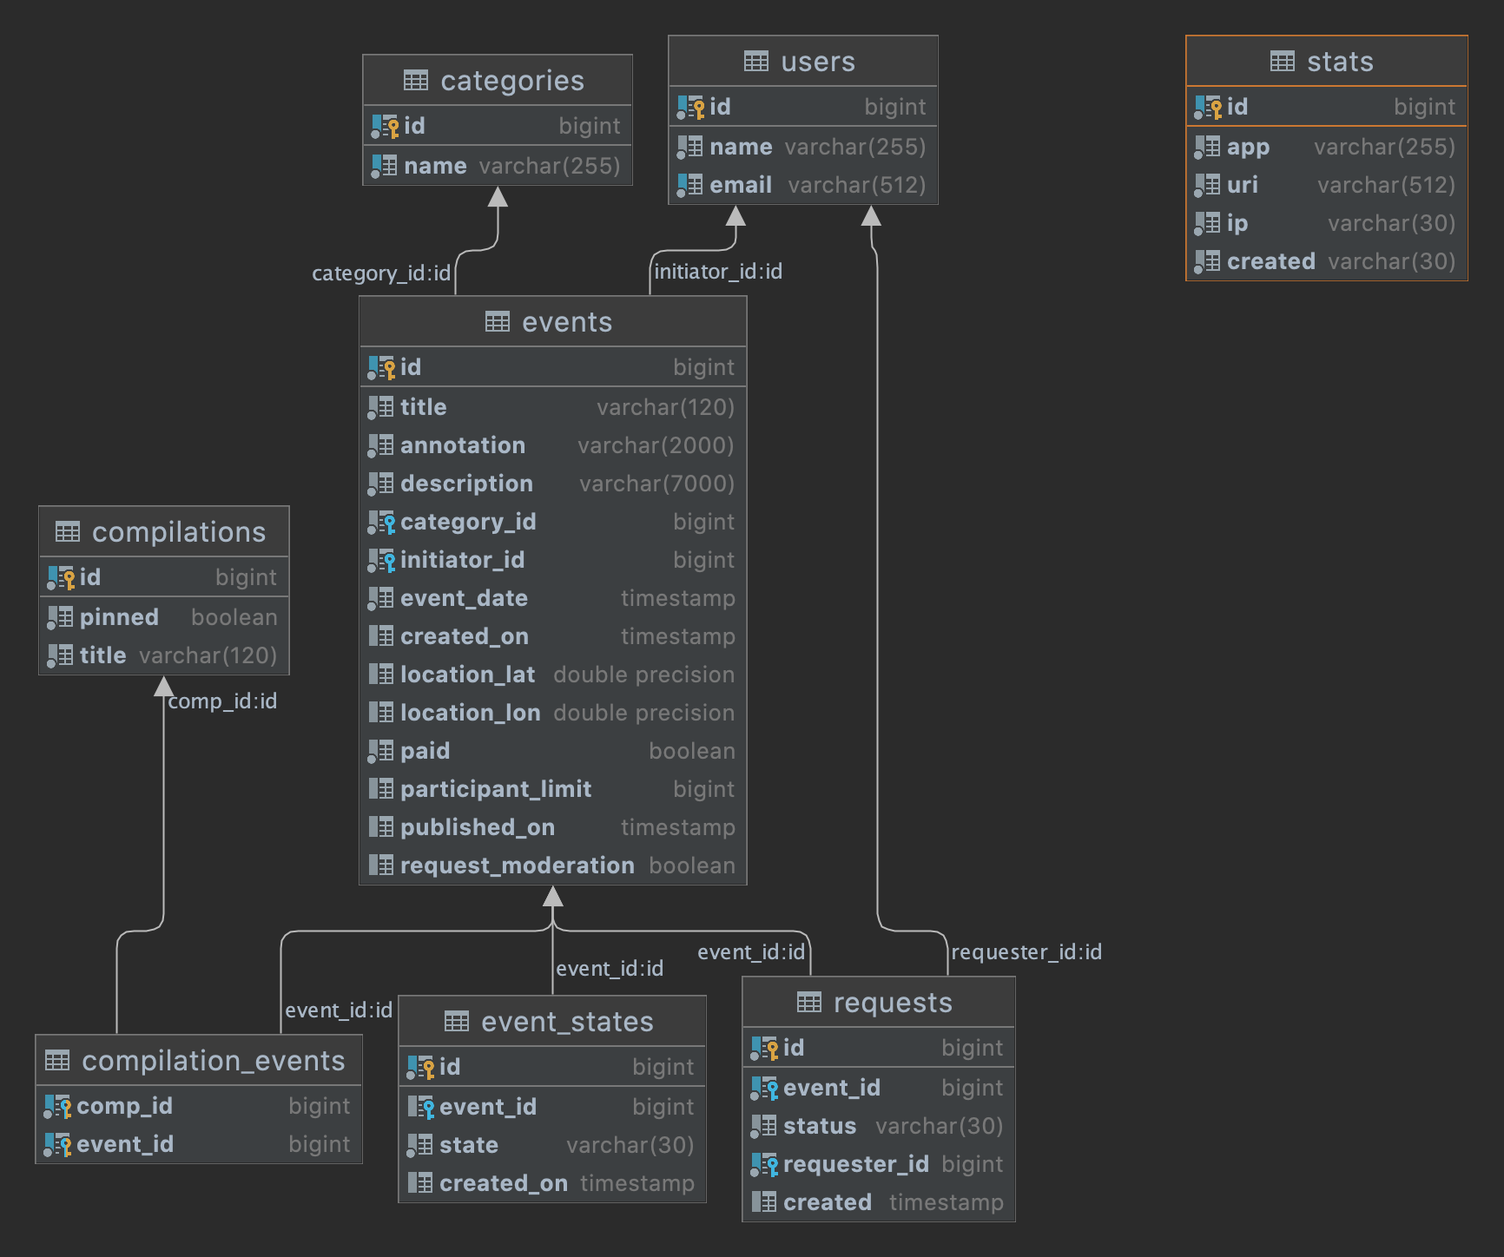
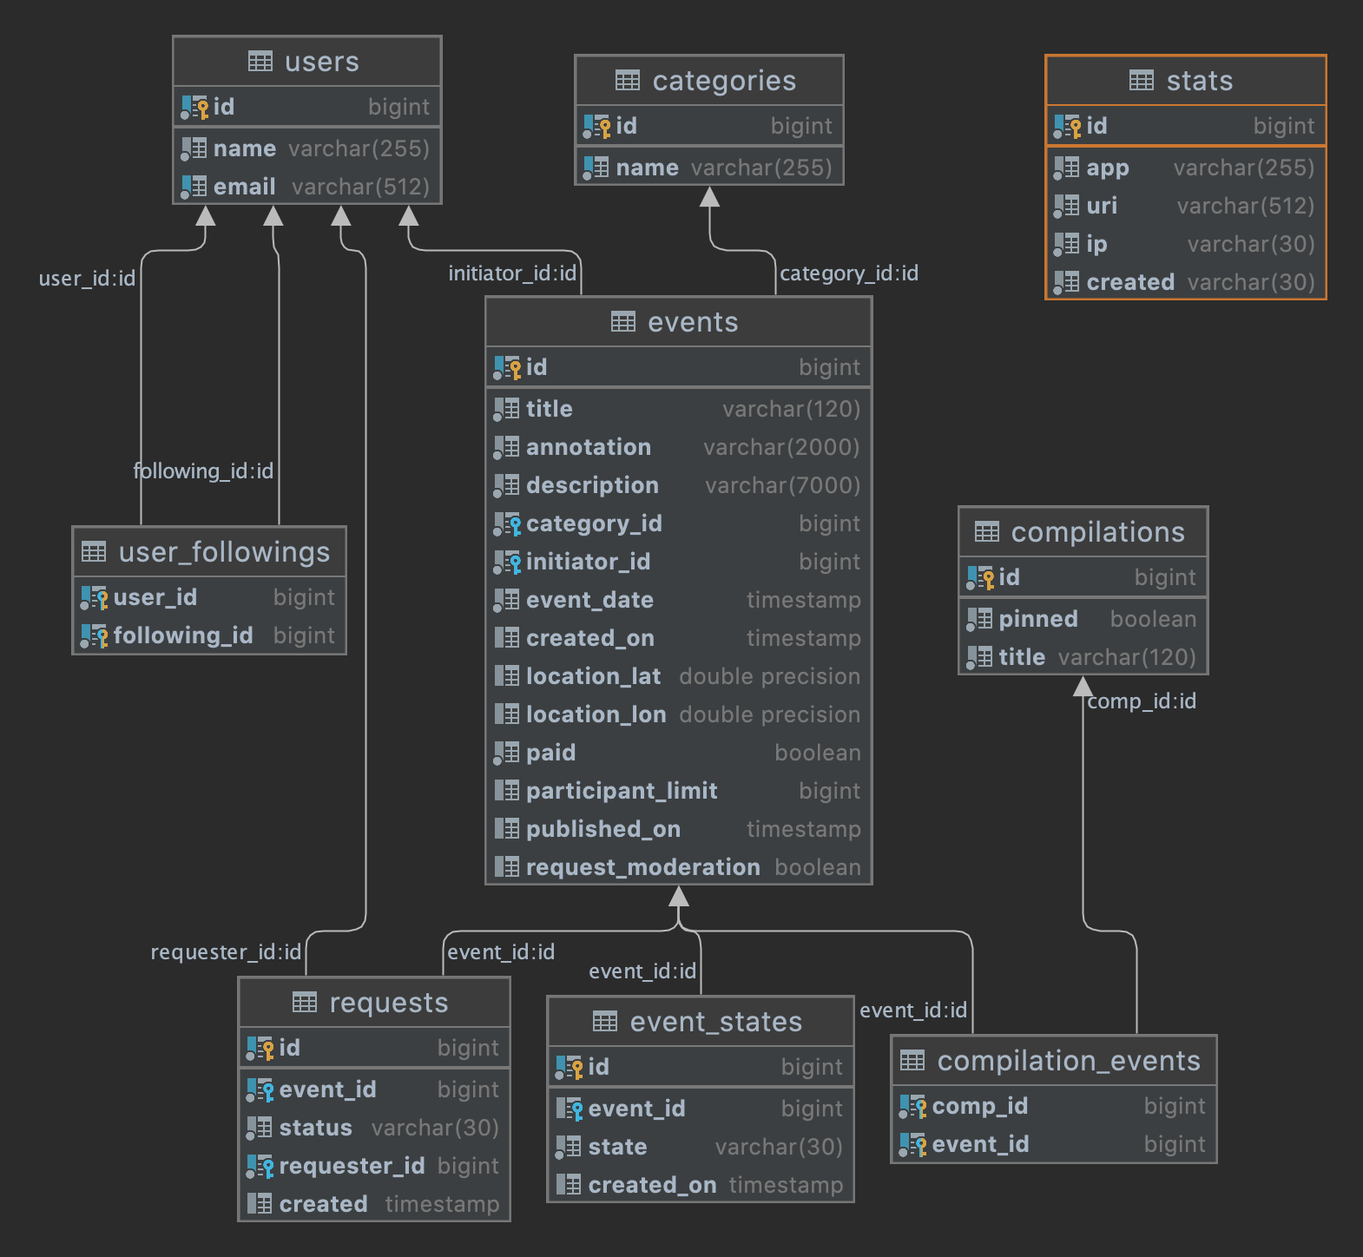
sprint18_fix: исправления по замечаниям ревью напарника

diff --git a/main-service/src/main/java/ru/practicum/mainservice/requests/controller/privateC/RequestPrivateController.java b/main-service/src/main/java/ru/practicum/mainservice/requests/controller/privateC/RequestPrivateController.java
@@ -9,6 +9,7 @@ import ru.practicum.mainservice.requests.model.dto.ParticipationRequestDto;
 import ru.practicum.mainservice.requests.model.entity.Request;
 import ru.practicum.mainservice.requests.service.RequestService;
 
+import javax.validation.constraints.Positive;
 import java.util.List;
 
 @Slf4j
@@ -28,8 +29,8 @@ public class RequestPrivateController {
      */
     @GetMapping("/events/{eventId}/requests")
     public List<ParticipationRequestDto> getEventParticipants(
-            @PathVariable long userId,
-            @PathVariable long eventId) {
+            @Positive @PathVariable long userId,
+            @Positive @PathVariable long eventId) {
         log.info("Получение информации о запросах на участие в событии текущего пользователя:");
         log.info("id текущего пользователя: {}", userId);
         log.info("id события: {}", eventId);
@@ -47,9 +48,9 @@ public class RequestPrivateController {
      */
     @PatchMapping("/events/{eventId}/requests/{reqId}/confirm")
     public ParticipationRequestDto confirmParticipationRequest(
-            @PathVariable long userId,
-            @PathVariable long eventId,
-            @PathVariable long reqId) {
+            @Positive @PathVariable long userId,
+            @Positive @PathVariable long eventId,
+            @Positive @PathVariable long reqId) {
         log.info("Подтверждение чужой заявки на участие в событии текущего пользователя:");
         log.info("id текущего пользователя: {}", userId);
         log.info("id события текущего пользователя: {}", eventId);
@@ -68,9 +69,9 @@ public class RequestPrivateController {
      */
     @PatchMapping("/events/{eventId}/requests/{reqId}/reject")
     public ParticipationRequestDto cancelParticipationRequest(
-            @PathVariable long userId,
-            @PathVariable long eventId,
-            @PathVariable long reqId) {
+            @Positive @PathVariable long userId,
+            @Positive @PathVariable long eventId,
+            @Positive @PathVariable long reqId) {
         log.info("Отклонение чужой заявки на участие в событии текущего пользователя:");
         log.info("id текущего пользователя: {}", userId);
         log.info("id события текущего пользователя: {}", eventId);
@@ -87,7 +88,7 @@ public class RequestPrivateController {
      */
     @GetMapping("/requests")
     public List<ParticipationRequestDto> getUserRequests(
-            @PathVariable long userId) {
+            @Positive @PathVariable long userId) {
         log.info("Получение информации о заявках текущего пользователя на участие в чужих событиях:");
         log.info("id текущего пользователя: {}", userId);
         List<Request> requestList = requestService.getUserRequests(userId);
@@ -108,8 +109,8 @@ public class RequestPrivateController {
      */
     @PostMapping("/requests")
     public ParticipationRequestDto addParticipationRequest(
-            @PathVariable long userId,
-            @RequestParam long eventId) {
+            @Positive @PathVariable long userId,
+            @Positive @RequestParam long eventId) {
         log.info("Добавление запроса от текущего пользователя на участие в событии:");
         log.info("id текущего пользователя: {}", userId);
         log.info("id события: {}", eventId);

diff --git a/main-service/src/main/java/ru/practicum/mainservice/compilation/controller/admin/CompilationAdminController.java b/main-service/src/main/java/ru/practicum/mainservice/compilation/controller/admin/CompilationAdminController.java
@@ -2,6 +2,7 @@ package ru.practicum.mainservice.compilation.controller.admin;
 
 import lombok.RequiredArgsConstructor;
 import lombok.extern.slf4j.Slf4j;
+import org.springframework.validation.annotation.Validated;
 import org.springframework.web.bind.annotation.*;
 import ru.practicum.mainservice.compilation.mapper.CompilationMapper;
 import ru.practicum.mainservice.compilation.model.dto.CompilationDto;
@@ -11,12 +12,14 @@ import ru.practicum.mainservice.compilation.service.CompilationService;
 import ru.practicum.mainservice.event.model.entity.Event;
 import ru.practicum.mainservice.event.service.EventService;
 
+import javax.validation.constraints.Positive;
 import java.util.List;
 import java.util.stream.Collectors;
 
 import static ru.practicum.mainservice.common.Utility.checkForNull;
 
 @Slf4j
+@Validated
 @RestController
 @RequiredArgsConstructor
 @RequestMapping("/admin/compilations")
@@ -46,7 +49,7 @@ public class CompilationAdminController {
      * @param compId id подборки
      */
     @DeleteMapping("/{compId}")
-    public void deleteCompilation(@PathVariable long compId) {
+    public void deleteCompilation(@Positive @PathVariable long compId) {
         log.info("Удаление подборки с compId={}", compId);
         compilationService.deleteCompilation(compId);
     }
@@ -57,7 +60,7 @@ public class CompilationAdminController {
      * @param compId id подборки
      */
     @PatchMapping("/{compId}/pin")
-    public void pinCompilation(@PathVariable long compId) {
+    public void pinCompilation(@Positive @PathVariable long compId) {
         log.info("Закрепить подборку на главной странице с compId={}", compId);
         compilationService.pinCompilation(compId);
     }
@@ -68,7 +71,7 @@ public class CompilationAdminController {
      * @param compId id подборки
      */
     @DeleteMapping("/{compId}/pin")
-    public void unPinCompilation(@PathVariable long compId) {
+    public void unPinCompilation(@Positive @PathVariable long compId) {
         log.info("Открепить подборку на главной странице с compId={}", compId);
         compilationService.unPinCompilation(compId);
     }
@@ -80,8 +83,8 @@ public class CompilationAdminController {
      * @param eventId id события
      */
     @PatchMapping("/{compId}/events/{eventId}")
-    public void addEventToCompilation(@PathVariable long compId,
-                                      @PathVariable long eventId) {
+    public void addEventToCompilation(@Positive @PathVariable long compId,
+                                      @Positive @PathVariable long eventId) {
         log.info("Добавить событие с eventId={} из подборки с compId={}", eventId, compId);
         compilationService.addEventToCompilation(compId, eventId);
     }

diff --git a/main-service/src/main/java/ru/practicum/mainservice/user/controller/publicC/FollowController.java b/main-service/src/main/java/ru/practicum/mainservice/user/controller/publicC/FollowController.java
@@ -2,6 +2,7 @@ package ru.practicum.mainservice.user.controller.publicC;
 
 import lombok.RequiredArgsConstructor;
 import lombok.extern.slf4j.Slf4j;
+import org.springframework.validation.annotation.Validated;
 import org.springframework.web.bind.annotation.*;
 import ru.practicum.mainservice.event.mapper.EventMapper;
 import ru.practicum.mainservice.event.model.dto.EventShortDto;
@@ -13,6 +14,7 @@ import javax.validation.constraints.PositiveOrZero;
 import java.util.List;
 
 @Slf4j
+@Validated
 @RestController
 @RequiredArgsConstructor
 @RequestMapping("/users/{userId}/follows")
@@ -26,8 +28,8 @@ public class FollowController {
      * @param followingId id подписки (на которого подписывается текущий пользователь)
      */
     @PostMapping("/{followingId}")
-    public void addFollowing(@PathVariable long userId,
-                             @PathVariable long followingId) {
+    public void addFollowing(@Positive @PathVariable long userId,
+                             @Positive @PathVariable long followingId) {
         log.info("Подписаться пользователю с userId={} на пользователя с userId={}", userId, followingId);
         userService.addFollowing(userId, followingId);
     }
@@ -39,8 +41,8 @@ public class FollowController {
      * @param followingId id подписки (на которого отподписывается текущий пользователь)
      */
     @DeleteMapping("/{followingId}")
-    public void removeFollowing(@PathVariable long userId,
-                                @PathVariable long followingId) {
+    public void removeFollowing(@Positive @PathVariable long userId,
+                                @Positive @PathVariable long followingId) {
         log.info("Отменить подписку пользователю с userId={} на пользователя с userId={}", userId, followingId);
         userService.removeFollowing(userId, followingId);
     }
@@ -55,7 +57,7 @@ public class FollowController {
      * @return List<UserDto> список пользователей
      */
     @GetMapping("/events")
-    public List<EventShortDto> getEventsFollows(@PathVariable long userId,
+    public List<EventShortDto> getEventsFollows(@Positive @PathVariable long userId,
                                                 @PositiveOrZero @RequestParam(defaultValue = "0") Integer from,
                                                 @Positive @RequestParam(defaultValue = "10") Integer size) {
         log.info("Получение списка актуальных событий, опубликованных пользователями, " +

diff --git a/main-service/src/main/java/ru/practicum/mainservice/event/controller/privateC/EventPrivateController.java b/main-service/src/main/java/ru/practicum/mainservice/event/controller/privateC/EventPrivateController.java
@@ -42,7 +42,7 @@ public class EventPrivateController {
      */
     @GetMapping
     public List<EventShortDto> getEvents(
-            @PathVariable Integer userId,
+            @Positive @PathVariable Integer userId,
             @PositiveOrZero @RequestParam(defaultValue = "0") Integer from,
             @Positive @RequestParam(defaultValue = "10") Integer size) {
         log.info("Получение событий, добавленных текущим пользователем:");
@@ -65,7 +65,7 @@ public class EventPrivateController {
      */
     @PatchMapping
     public EventFullDto updateEvent(
-            @PathVariable long userId,
+            @Positive @PathVariable long userId,
             @RequestBody UpdateEventRequest eventUpdateDto
     ) {
         log.info("Изменение события добавленного текущим пользователем:");
@@ -89,7 +89,7 @@ public class EventPrivateController {
      */
     @PostMapping
     public EventFullDto addEvent(
-            @PathVariable long userId,
+            @Positive @PathVariable long userId,
             @RequestBody NewEventDto newEventDto
     ) {
         log.info("Добавление нового события:");
@@ -112,8 +112,8 @@ public class EventPrivateController {
      */
     @GetMapping("/{eventId}")
     public EventFullDto getEvent(
-            @PathVariable Long userId,
-            @PathVariable Long eventId) {
+            @Positive @PathVariable Long userId,
+            @Positive @PathVariable Long eventId) {
         log.info("Получение полной информации о событии добавленном текущим пользователем:");
         log.info("id текущего пользователя: {}", userId);
         log.info("id события: {}", eventId);
@@ -131,8 +131,8 @@ public class EventPrivateController {
      */
     @PatchMapping("/{eventId}")
     public EventFullDto cancelEvent(
-            @PathVariable Long userId,
-            @PathVariable Long eventId) {
+            @Positive @PathVariable Long userId,
+            @Positive @PathVariable Long eventId) {
         log.info("Отмена события добавленного текущим пользователем:");
         log.info("id текущего пользователя: {}", userId);
         log.info("id отменяемого события: {}", eventId);

diff --git a/main-service/src/main/java/ru/practicum/mainservice/event/controller/admin/EventAdminController.java b/main-service/src/main/java/ru/practicum/mainservice/event/controller/admin/EventAdminController.java
@@ -2,6 +2,7 @@ package ru.practicum.mainservice.event.controller.admin;
 
 import lombok.RequiredArgsConstructor;
 import lombok.extern.slf4j.Slf4j;
+import org.springframework.validation.annotation.Validated;
 import org.springframework.web.bind.annotation.*;
 import ru.practicum.mainservice.category.model.entity.Category;
 import ru.practicum.mainservice.category.service.CategoryService;
@@ -23,6 +24,7 @@ import java.util.stream.Collectors;
 import static ru.practicum.mainservice.common.Utility.checkForNull;
 
 @Slf4j
+@Validated
 @RestController
 @RequiredArgsConstructor
 @RequestMapping("/admin/events")
@@ -74,7 +76,7 @@ public class EventAdminController {
      * @return EventFullDto Полная информация о событии
      */
     @PutMapping("/{eventId}")
-    public EventFullDto updateEvent(@PathVariable long eventId,
+    public EventFullDto updateEvent(@Positive @PathVariable long eventId,
                                     @RequestBody AdminUpdateEventRequest eventUpdateDto) {
         log.info("Обновление события {} с eventId={}", eventUpdateDto, eventId);
         checkForNull(eventUpdateDto, "eventUpdateDto");
@@ -93,7 +95,7 @@ public class EventAdminController {
      * @return EventFullDto Полная информация о событии
      */
     @PatchMapping("/{eventId}/publish")
-    public EventFullDto publishEvent(@PathVariable long eventId) {
+    public EventFullDto publishEvent(@Positive @PathVariable long eventId) {
         log.info("Публикация события с eventId={}", eventId);
         Event event = eventService.publishEventById(eventId);
         return EventMapper.toEventFullDto(event);
@@ -107,7 +109,7 @@ public class EventAdminController {
      * @return EventFullDto Полная информация о событии
      */
     @PatchMapping("/{eventId}/reject")
-    public EventFullDto rejectEvent(@PathVariable long eventId) {
+    public EventFullDto rejectEvent(@Positive @PathVariable long eventId) {
         log.info("Отклонение события с eventId={}", eventId);
         Event event = eventService.rejectEventById(eventId);
         return EventMapper.toEventFullDto(event);

diff --git a/main-service/src/main/java/ru/practicum/mainservice/user/controller/admin/UserAdminController.java b/main-service/src/main/java/ru/practicum/mainservice/user/controller/admin/UserAdminController.java
@@ -2,6 +2,7 @@ package ru.practicum.mainservice.user.controller.admin;
 
 import lombok.RequiredArgsConstructor;
 import lombok.extern.slf4j.Slf4j;
+import org.springframework.validation.annotation.Validated;
 import org.springframework.web.bind.annotation.*;
 import ru.practicum.mainservice.user.mapper.UserMapper;
 import ru.practicum.mainservice.user.model.dto.NewUserRequest;
@@ -14,6 +15,7 @@ import javax.validation.constraints.PositiveOrZero;
 import java.util.List;
 
 @Slf4j
+@Validated
 @RestController
 @RequiredArgsConstructor
 @RequestMapping("/admin/users")
@@ -64,7 +66,7 @@ public class UserAdminController {
      * @param userId id пользователя
      */
     @DeleteMapping("/{userId}")
-    public void deleteUser(@PathVariable long userId) {
+    public void deleteUser(@Positive @PathVariable long userId) {
         log.info("Удаление пользователя с userId={}", userId);
         userService.deleteUser(userId);
     }

diff --git a/main-service/src/main/java/ru/practicum/mainservice/event/service/EventServiceImpl.java b/main-service/src/main/java/ru/practicum/mainservice/event/service/EventServiceImpl.java
@@ -223,11 +223,11 @@ public class EventServiceImpl implements EventService {
     }
 
     @Override
-    public List<Event> getEventsByUsers(List<Long> userIds, Integer from, Integer size) {
+    public List<Event> getEventsByUsers(List<Long> userIds, LocalDateTime eventDate, Integer from, Integer size) {
         log.debug("Получение списка событий, добавленных текущими пользователями:");
         log.debug("userIds={}, from={}, size={}", userIds, from, size);
         PageRequest pr = PageRequest.of(from / size, size);
-        return eventRepository.getEventsByInitiatorIdInAndPublishedOnIsNotNull(userIds, pr).toList();
+        return eventRepository.getEventsByInitiatorIdInAndPublishedOnIsNotNullAndEventDateAfter(userIds, eventDate, pr).toList();
     }
 
     private void checkEventDate(Event event) {

diff --git a/main-service/src/main/java/ru/practicum/mainservice/user/service/UserServiceImpl.java b/main-service/src/main/java/ru/practicum/mainservice/user/service/UserServiceImpl.java
@@ -12,6 +12,7 @@ import ru.practicum.mainservice.user.model.entity.User;
 import ru.practicum.mainservice.user.repository.UserRepository;
 
 import javax.persistence.EntityManager;
+import java.time.LocalDateTime;
 import java.util.List;
 import java.util.stream.Collectors;
 
@@ -104,6 +105,6 @@ public class UserServiceImpl implements UserService {
         List<Long> followingIdList = user.getFollowings().stream()
                 .map(User::getId)
                 .collect(Collectors.toList());
-        return eventService.getEventsByUsers(followingIdList, from, size);
+        return eventService.getEventsByUsers(followingIdList, LocalDateTime.now(), from, size);
     }
 }

diff --git a/main-service/src/main/java/ru/practicum/mainservice/event/controller/publicC/EventController.java b/main-service/src/main/java/ru/practicum/mainservice/event/controller/publicC/EventController.java
@@ -106,7 +106,7 @@ public class EventController {
      * @return EventFullDto Полная информация о событии
      */
     @GetMapping("/{id}")
-    public EventFullDto getEventById(@PathVariable long id,
+    public EventFullDto getEventById(@Positive @PathVariable long id,
                                      HttpServletRequest request) {
         log.info("Получение подробной информации об опубликованном событии по его идентификатору с id={}", id);
         Event event = eventService.getEventById(id);

diff --git a/main-service/src/main/java/ru/practicum/mainservice/compilation/controller/publicC/CompilationController.java b/main-service/src/main/java/ru/practicum/mainservice/compilation/controller/publicC/CompilationController.java
@@ -48,7 +48,7 @@ public class CompilationController {
      * @return CompilationDto Подборка события
      */
     @GetMapping("/{compId}")
-    public CompilationDto getCompilationById(@PathVariable long compId) {
+    public CompilationDto getCompilationById(@Positive @PathVariable long compId) {
         log.info("Получение подборки событий с compId={}", compId);
         Compilation compilation = compilationService.getCompilationById(compId);
         return CompilationMapper.toCompilationDto(compilation);

diff --git a/main-service/src/test/java/ru/practicum/mainservice/user/service/UserServiceImplTest.java b/main-service/src/test/java/ru/practicum/mainservice/user/service/UserServiceImplTest.java
@@ -111,7 +111,7 @@ class UserServiceImplTest {
         Event event2 = new Event();
         event1.setId(2L);
         List<Event> sourceEvents = List.of(event1, event2);
-        Mockito.when(mockEventService.getEventsByUsers(any(), any(), any())).thenReturn(sourceEvents);
+        Mockito.when(mockEventService.getEventsByUsers(any(), any(), any(), any())).thenReturn(sourceEvents);
 
         Mockito
                 .when(mockUserRepository.findById(userId3))

diff --git a/main-service/src/main/java/ru/practicum/mainservice/event/repository/EventRepository.java b/main-service/src/main/java/ru/practicum/mainservice/event/repository/EventRepository.java
@@ -51,5 +51,5 @@ public interface EventRepository extends JpaRepository<Event, Long> {
 
     List<Event> getEventsByCategoryId(long catID);
 
-    Page<Event> getEventsByInitiatorIdInAndPublishedOnIsNotNull(List<Long> userIDs, Pageable pageable);
+    Page<Event> getEventsByInitiatorIdInAndPublishedOnIsNotNullAndEventDateAfter(List<Long> userIDs, LocalDateTime eventDate, Pageable pageable);
 }
